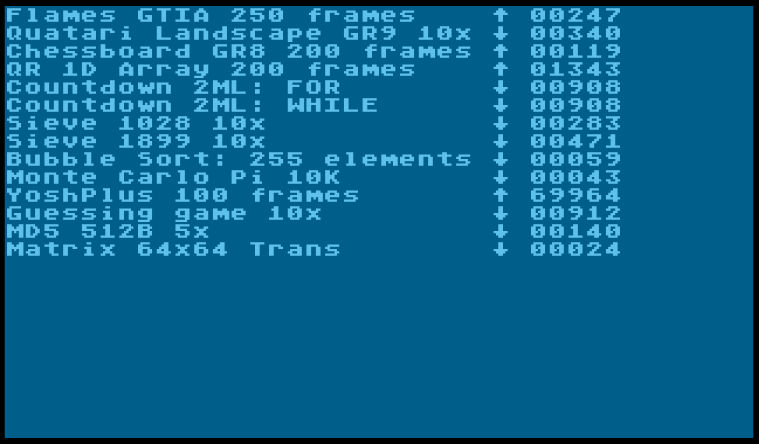
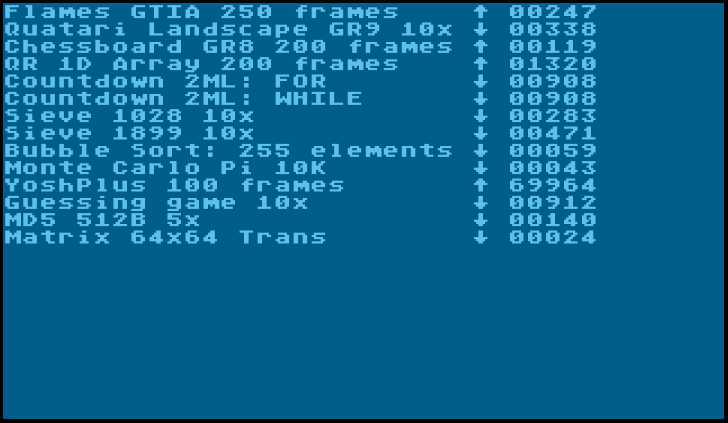
Use new XeX segment plugin and add data/code segment pragmas

Changed region(s): [[0.0, 0.0, 0.9973, 0.5839], [0.0, 0.9835, 0.9973, 1.0], [0.3324, 0.5532, 0.3626, 0.5839]]

diff --git a/benches.lib/qr1d.c b/benches.lib/qr1d.c
@@ -1,3 +1,4 @@
+#pragma code_seg(Code)
 
 #include <atari-xl.h>
 #include "atari-system.h"
@@ -14,44 +15,6 @@ void runQR1d() {
 	counterOverwrite();
 	counterPrint();
 }
-
-char align(0x100) qr[] = {
-   0b11111111,0b11111111,0b11111111,0b11111111,0b11100000,
-   0b10000000,0b10001010,0b01111111,0b00100000,0b00100000,
-   0b10111110,0b10001101,0b00000111,0b11101111,0b10100000,
-   0b10100010,0b10100100,0b01001110,0b01101000,0b10100000,
-   0b10100010,0b10010100,0b01101101,0b01101000,0b10100000,
-   0b10100010,0b11111100,0b11101101,0b00101000,0b10100000,
-   0b10111110,0b10110010,0b01000010,0b01101111,0b10100000,
-   0b10000000,0b10101010,0b10101010,0b10100000,0b00100000,
-   0b11111111,0b11011001,0b10001111,0b00111111,0b11100000,
-   0b10011000,0b11110100,0b11010101,0b00110100,0b00100000,
-   0b10011001,0b01001011,0b00100111,0b11011001,0b10100000,
-   0b10100010,0b10110011,0b10011100,0b11111010,0b01100000,
-   0b10101111,0b01100101,0b01001111,0b01011111,0b00100000,
-   0b11101000,0b00101000,0b00010010,0b10111100,0b11100000,
-   0b10100011,0b10011111,0b10001011,0b00000001,0b10100000,
-   0b10110000,0b10101100,0b00001110,0b01110010,0b01100000,
-   0b10011001,0b00101011,0b10011110,0b10100001,0b00100000,
-   0b10110110,0b00110010,0b01000001,0b11011011,0b11100000,
-   0b10110111,0b01011000,0b11101010,0b10111101,0b10100000,
-   0b10111100,0b00100111,0b01011100,0b11111010,0b01100000,
-   0b10010001,0b01111011,0b01011000,0b11110001,0b11100000,
-   0b11100010,0b10010101,0b11010001,0b00001011,0b11100000,
-   0b10010101,0b01001011,0b00101101,0b11011011,0b10100000,
-   0b11101100,0b10011110,0b00111000,0b11111011,0b01100000,
-   0b11110111,0b10100101,0b10011101,0b01111101,0b11100000,
-   0b10001010,0b11000111,0b11010001,0b10000010,0b01100000,
-   0b11111111,0b10011000,0b10011111,0b10111011,0b01100000,
-   0b10000000,0b11011101,0b01011000,0b10101000,0b11100000,
-   0b10111110,0b10111101,0b01001000,0b00111001,0b00100000,
-   0b10100010,0b10001000,0b11001001,0b10000011,0b10100000,
-   0b10100010,0b11010101,0b00100111,0b10111111,0b00100000,
-   0b10100010,0b11101010,0b00011100,0b10111101,0b01100000,
-   0b10111110,0b10010000,0b01011100,0b11000001,0b11100000,
-   0b10000000,0b10100010,0b10110001,0b11101111,0b10100000,
-   0b11111111,0b11111111,0b11111111,0b11111111,0b11100000
-};
 
 void benchmarkQR1d() {
 	mode4();

diff --git a/benches.include/qr1d.h b/benches.include/qr1d.h
@@ -1,1 +1,41 @@
+#pragma data_seg(Data)
+
 void runQR1d();
+
+char qr[] = {
+   0b11111111,0b11111111,0b11111111,0b11111111,0b11100000,
+   0b10000000,0b10001010,0b01111111,0b00100000,0b00100000,
+   0b10111110,0b10001101,0b00000111,0b11101111,0b10100000,
+   0b10100010,0b10100100,0b01001110,0b01101000,0b10100000,
+   0b10100010,0b10010100,0b01101101,0b01101000,0b10100000,
+   0b10100010,0b11111100,0b11101101,0b00101000,0b10100000,
+   0b10111110,0b10110010,0b01000010,0b01101111,0b10100000,
+   0b10000000,0b10101010,0b10101010,0b10100000,0b00100000,
+   0b11111111,0b11011001,0b10001111,0b00111111,0b11100000,
+   0b10011000,0b11110100,0b11010101,0b00110100,0b00100000,
+   0b10011001,0b01001011,0b00100111,0b11011001,0b10100000,
+   0b10100010,0b10110011,0b10011100,0b11111010,0b01100000,
+   0b10101111,0b01100101,0b01001111,0b01011111,0b00100000,
+   0b11101000,0b00101000,0b00010010,0b10111100,0b11100000,
+   0b10100011,0b10011111,0b10001011,0b00000001,0b10100000,
+   0b10110000,0b10101100,0b00001110,0b01110010,0b01100000,
+   0b10011001,0b00101011,0b10011110,0b10100001,0b00100000,
+   0b10110110,0b00110010,0b01000001,0b11011011,0b11100000,
+   0b10110111,0b01011000,0b11101010,0b10111101,0b10100000,
+   0b10111100,0b00100111,0b01011100,0b11111010,0b01100000,
+   0b10010001,0b01111011,0b01011000,0b11110001,0b11100000,
+   0b11100010,0b10010101,0b11010001,0b00001011,0b11100000,
+   0b10010101,0b01001011,0b00101101,0b11011011,0b10100000,
+   0b11101100,0b10011110,0b00111000,0b11111011,0b01100000,
+   0b11110111,0b10100101,0b10011101,0b01111101,0b11100000,
+   0b10001010,0b11000111,0b11010001,0b10000010,0b01100000,
+   0b11111111,0b10011000,0b10011111,0b10111011,0b01100000,
+   0b10000000,0b11011101,0b01011000,0b10101000,0b11100000,
+   0b10111110,0b10111101,0b01001000,0b00111001,0b00100000,
+   0b10100010,0b10001000,0b11001001,0b10000011,0b10100000,
+   0b10100010,0b11010101,0b00100111,0b10111111,0b00100000,
+   0b10100010,0b11101010,0b00011100,0b10111101,0b01100000,
+   0b10111110,0b10010000,0b01011100,0b11000001,0b11100000,
+   0b10000000,0b10100010,0b10110001,0b11101111,0b10100000,
+   0b11111111,0b11111111,0b11111111,0b11111111,0b11100000
+};

diff --git a/lib/gr.c b/lib/gr.c
@@ -1,7 +1,9 @@
+#pragma data_seg(DList)
+
 #include "gr.h"
 #include "atari-system.h"
 
-export align(0x100) char dl8[] = {
+export char dl8[] = {
 	0xf0, 0x70, 0x70,
 	0x42, counterLms, 0x00,
 	0xf0,
@@ -30,7 +32,7 @@ export align(0x100) char dl8[] = {
 	0x41, <dl8, >dl8
 	};
 
-export align(0x100) char dl4[] = {
+export char dl4[] = {
 	0x70, 0x70, 0x70,
 	0x42, counterLms, 0x00,
 	0x70,
@@ -42,13 +44,13 @@ export align(0x100) char dl4[] = {
 	0x41, <dl4, >dl4
 	};
 
-export align(0x100) char dlCounter[] = {
+export char dlCounter[] = {
 	0x70, 0x70, 0x70,
 	0x42, counterLms, 0x00,
 	0x41, <dlCounter, >dlCounter
 	};
 
-export align(0x100) char dlScore[] = {
+export char dlScore[] = {
 	0x70, 0x70, 0x70,
 	0x42, <scoreLms, >scoreLms,
 	0x02, 0x02, 0x02, 0x02, 0x02, 0x02, 0x02, 0x02, 0x02, 0x02, 
@@ -57,7 +59,7 @@ export align(0x100) char dlScore[] = {
 	0x41, <dlScore, >dlScore,
 	};
 
-export align(0x100) char dlFire[] = {
+export char dlFire[] = {
 	0xf0, 0x70, 0x70,
 	0x42, counterLms, 0x00,
 	0xf0,
@@ -66,6 +68,8 @@ export align(0x100) char dlFire[] = {
 	0x02, 0x02, 0x02, 0x02, 0x02, 0x02, 0x02, 0x02, 0x02, 0x02, 
 	0x41, <dlFire, >dlFire
 	};
+
+#pragma code_seg(Code)
 
 void mode8() {
 	*DLIST = dl8;	

diff --git a/lib/counter.c b/lib/counter.c
@@ -1,4 +1,3 @@
-
 #include <stdlib.h>
 #include <atari-xl.h>
 #include <string.h>
@@ -8,6 +7,8 @@
 
 #define BENCHNAME_LEN 28
 
+#pragma data_seg(Data)
+
 // The current benchmark's name - has to be 1 larger than the actual max string (25) for the 0 to terminate the string.
 char benchName[BENCHNAME_LEN];
 
@@ -16,6 +17,8 @@ char *currentPrintPosition = scoreLms;
 
 // counter on off flag, used in the VBL, so make it volatile
 volatile char counterOnValue = 0;
+
+#pragma code_seg(Code)
 
 // 0 = off, 1 = on
 void counterOn(char onoff) {

diff --git a/benches.lib/md5.c b/benches.lib/md5.c
@@ -1,5 +1,6 @@
-// 8 bit converted md5 calculator
+#pragma code_seg(Code)
 
+// 8 bit converted md5 calculator
 
 #include <stdio.h>
 #include <stdlib.h>
@@ -19,7 +20,7 @@ void runMd5() {
 }
 
 void benchmarkMd5() {
-	uint8_t data[512];
+	uint8_t const * data = 0x6000;
 	for (uint16_t i = 0; i < 512; i++) { data[i] = (uint8_t) i; }
 	for (uint8_t l: 0..4) { md5(data, 512); } 
 }

diff --git a/benches.lib/bsort.c b/benches.lib/bsort.c
@@ -1,3 +1,4 @@
+#pragma code_seg(Code)
 
 #include <atari-xl.h>
 #include "counter.h"
@@ -14,7 +15,7 @@ void runBsort() {
 }
 
 void benchmarkBsort() {
-	char align(0x100) sortTable[255];
+	char * const sortTable = 0x6000;
 	// Make the test repeatable by actually initialising, rather than using kickasm fill
 	for(char i: 0..254) {
 		sortTable[i] = 0xff - i;

diff --git a/lib/atari-system.c b/lib/atari-system.c
@@ -1,5 +1,7 @@
 // Equivalent functions from https://gitlab.com/bocianu/blibs/-/blob/master/b_system.pas
 
+#pragma code_seg(Code)
+
 #include <atari-xl.h>
 #include <6502.h>
 #include "atari-system.h"

diff --git a/src/suite.c b/src/suite.c
@@ -1,7 +1,7 @@
 // Main Benchmark Starting Unit
 
 #pragma target(benchmark)
-#pragma pc(0x1000)
+#pragma code_seg(Code)
 
 #include <string.h>
 #include <atari-xl.h>

diff --git a/benches.lib/sieve.c b/benches.lib/sieve.c
@@ -1,3 +1,4 @@
+#pragma code_seg(Code)
 #include <stdlib.h>
 
 // This is quicker than the library routine memset by about 40 frames.

diff --git a/benches.lib/yoshplus.c b/benches.lib/yoshplus.c
@@ -1,3 +1,5 @@
+#pragma code_seg(Code)
+
 #include "atari-system.h"
 #include "counter.h"
 

diff --git a/benches.lib/chessboard.c b/benches.lib/chessboard.c
@@ -1,3 +1,4 @@
+#pragma code_seg(Code)
 
 #include <atari-xl.h>
 #include "atari-system.h"

diff --git a/benches.lib/countdownFor.c b/benches.lib/countdownFor.c
@@ -1,3 +1,4 @@
+#pragma code_seg(Code)
 
 #include <atari-xl.h>
 #include "atari-system.h"
